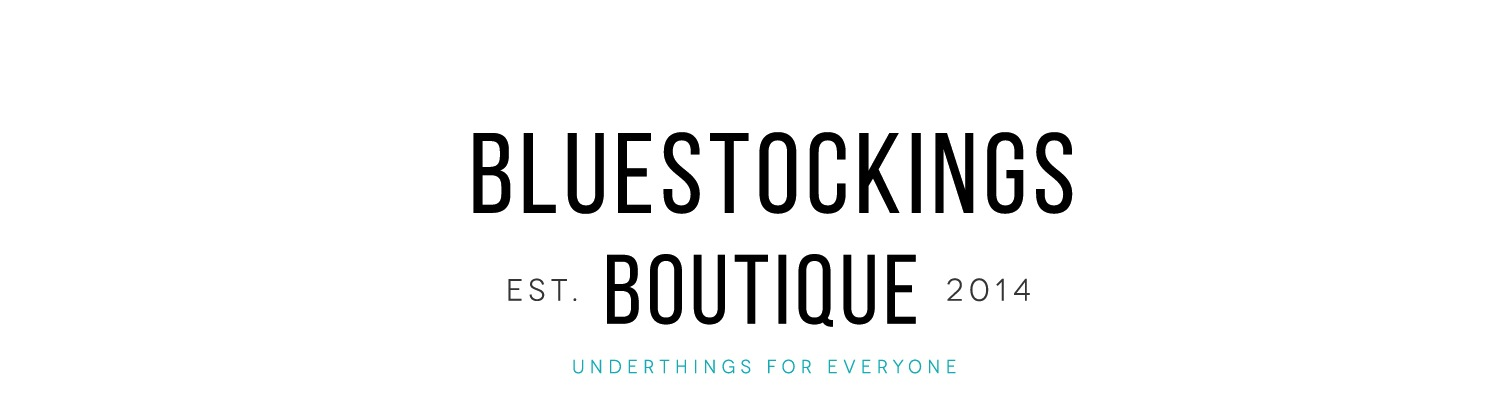
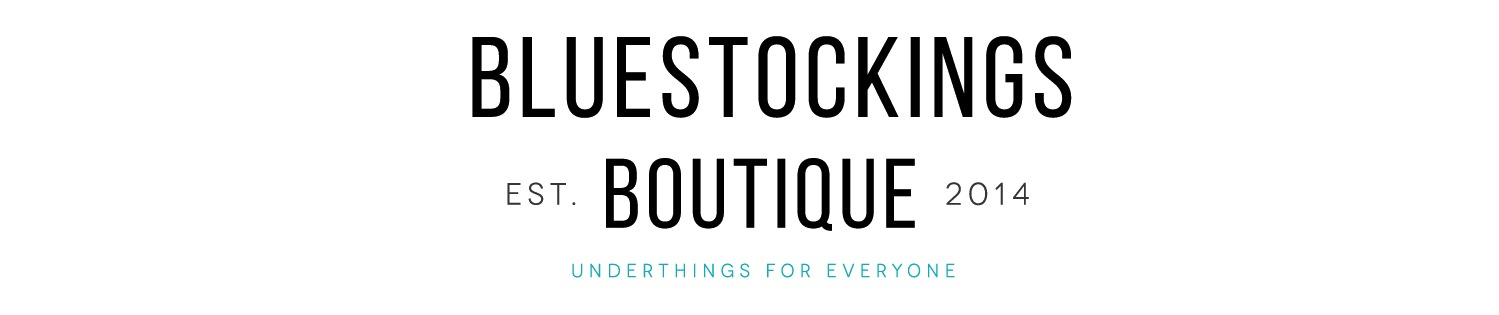
TWEAAAAKS

Changed region(s): [[0.3069, 0.1143, 0.7365, 0.8], [0.3682, 0.8286, 0.6444, 0.9143]]

diff --git a/wp-content/themes/bluestockings/style.css b/wp-content/themes/bluestockings/style.css
@@ -148,8 +148,6 @@ a img {
 2.0 Typography
 --------------------------------------------------------------*/
 body,
-button,
-input,
 select,
 textarea {
 	color: #404040;
@@ -157,6 +155,11 @@ textarea {
 	font-size: 16px;
 	font-size: 1.6rem;
 	line-height: 1.5;
+}
+
+button,
+input {
+	font-family: 'bebas_neuelight'
 }
 
 h1,
@@ -571,33 +574,10 @@ button,
 input[type="button"],
 input[type="reset"],
 input[type="submit"] {
-	border: 1px solid;
-	border-color: #ccc #ccc #bbb;
-	border-radius: 3px;
-	background: #e6e6e6;
-	box-shadow: inset 0 1px 0 rgba(255, 255, 255, 0.5), inset 0 15px 17px rgba(255, 255, 255, 0.5), inset 0 -5px 12px rgba(0, 0, 0, 0.05);
-	color: rgba(0, 0, 0, .8);
 	cursor: pointer; /* Improves usability and consistency of cursor style between image-type 'input' and others */
 	-webkit-appearance: button; /* Corrects inability to style clickable 'input' types in iOS */
-	font-size: 12px;
-	font-size: 1.2rem;
-	line-height: 1;
-	padding: .6em 1em .4em;
-	text-shadow: 0 1px 0 rgba(255, 255, 255, 0.8);
 }
 
-
-button:focus,
-input[type="button"]:focus,
-input[type="reset"]:focus,
-input[type="submit"]:focus,
-button:active,
-input[type="button"]:active,
-input[type="reset"]:active,
-input[type="submit"]:active {
-	border-color: #aaa #bbb #bbb;
-	box-shadow: inset 0 -1px 0 rgba(255, 255, 255, 0.5), inset 0 2px 5px rgba(0, 0, 0, 0.15);
-}
 
 input[type="checkbox"],
 input[type="radio"] {
@@ -619,7 +599,7 @@ button::-moz-focus-inner,
 input::-moz-focus-inner { /* Corrects inner padding and border displayed oddly in FF3/4 www.sitepen.com/blog/2008/05/14/the-devils-in-the-details-fixing-dojos-toolbar-buttons/ */
 	border: 0;
 	padding: 0;
-	font-size: 14pt;
+	font-size: 13pt;
 }
 
 input[type="text"],
@@ -1120,6 +1100,10 @@ object {
 	text-align: center;
 }
 
+.site-header a:hover {
+	color: #444444;
+}
+
 @media (min-width: 481px) and (max-width: 760px) {
 	.site-header a {
 		font-size: 16pt;
@@ -1145,13 +1129,14 @@ Landing splash page
 
 .jumbotron-wrapper {
 	text-align: center;
+	margin-top: 40px;
 	margin-right: auto;
 	margin-left: auto;
 	background-image: url('images/bb.jpg');
 	background-position: center;
 	background-repeat: no-repeat;
 	width: 100%;
-	height: 370px;
+	height: 340px;
 }
 
 @media (max-width: 760px) {
@@ -1169,9 +1154,9 @@ Landing splash page
 
 h1.coming-soon {
 	color: gray;
-	font-size: 20pt;
+	font-size: 14pt;
 	font-family: 'novecentolight', sans-serif;
-	margin-top: 10px;
+	padding-bottom: 30px;
 }
 
 @media (min-width: 481px) and (max-width: 760px) {
@@ -1222,7 +1207,7 @@ h1.coming-soon {
 
 .launch-button {
 	position: absolute;
-	border: 3px solid #43A2AE;
+	border: 3px solid #04B4BF;
 	width: 280px;
 	left:50%;
 	top: 20px;
@@ -1242,7 +1227,7 @@ h1.coming-soon {
 .banner-left-top {
 	width: 0; 
 	height: 0; 
-	border-top: 35px solid #43A2AE;
+	border-top: 35px solid #04B4BF;
 	border-left: 35px solid transparent;
 	position: absolute;
 	top: 30px;
@@ -1261,7 +1246,7 @@ h1.coming-soon {
 .banner-left-bottom {
 	width: 0; 
 	height: 0; 
-	border-bottom: 35px solid #43A2AE;
+	border-bottom: 35px solid #04B4BF;
 	border-left: 35px solid transparent;
 	position: absolute;
 	top: 30px;
@@ -1281,7 +1266,7 @@ h1.coming-soon {
 .banner-right-top {
 	width: 0; 
 	height: 0; 
-	border-top: 35px solid #43A2AE;
+	border-top: 35px solid #04B4BF;
 	border-right: 35px solid transparent;
 	position: absolute;
 	top: 30px;
@@ -1301,7 +1286,7 @@ h1.coming-soon {
 .banner-right-bottom {
 	width: 0; 
 	height: 0; 
-	border-bottom: 35px solid #43A2AE;
+	border-bottom: 35px solid #04B4BF;
 	border-right: 35px solid transparent;
 	position: absolute;
 	top: 30px;
@@ -1320,7 +1305,7 @@ h1.coming-soon {
 
 .launch-button a:link,
 .launch-button a:visited {
-	background: #43A2AE;
+	background: #04B4BF;
 	display: block;
 	width: calc(100%-2px);
 	color: white;
@@ -1339,14 +1324,14 @@ h1.coming-soon {
 }
 
 .button:hover {
-		color: #43A2AE;
+		color: #04B4BF;
 
 }
 
 .button a:hover,
 .button a:active {
-	border: 2px solid #43A2AE;
-	color: #43A2AE;
+	border: 2px solid #04B4BF;
+	color: #04B4BF;
 	background: #FFF;
 }
 
@@ -1375,7 +1360,7 @@ h1.coming-soon {
 		font-size: 14pt;
 	}
 	.mailchimp input.email {
-		font-size: 14pt;
+		font-size: 13pt;
 	}
 }
 
@@ -1389,33 +1374,29 @@ h1.coming-soon {
 
 .mailchimp input.email {
 	font-family: 'novecentolight', sans-serif;	
-	width: 400px;
 	font-size: 13pt;
 	text-align: center;
 	display: inline-block;
 	margin-right: auto;
 	margin-left: auto;
+	vertical-align: center;
 }
 
 .mailchimp input.button {
-	font-size: 13pt;
-	width: 200px;
-	text-decoration:none;
-	background:-moz-linear-gradient( center top, #ffffff 5%, #f6f6f6 100% );
-	background:-ms-linear-gradient( top, #ffffff 5%, #f6f6f6 100% );
-	filter:progid:DXImageTransform.Microsoft.gradient(startColorstr='#ffffff', endColorstr='#f6f6f6');
-	background:-webkit-gradient( linear, left top, left bottom, color-stop(5%, #ffffff), color-stop(100%, #f6f6f6) );
-	background-color:#ffffff;
-	color:#666666;
-	text-shadow:1px 1px 0px #ffffff;
- 	-webkit-box-shadow:inset 1px 1px 0px 0px #ffffff;
- 	-moz-box-shadow:inset 1px 1px 0px 0px #ffffff;
- 	box-shadow:inset 1px 1px 0px 0px #ffffff;
+	-webkit-border-radius: 5;
+  -moz-border-radius: 5;
+  border-radius: 5px;
+  color: #ffffff;
+  font-size: 13pt;
+  background: #04B4BF;
+  padding: 10px 20px 10px 20px;
+  text-decoration: none;
+  line-height: 0.8em;
 }
 
-.mailchimp input.button:active {
-	position:relative;
-	top:1px;
+.mailchimp input.button:hover {
+	background: #B3B3B3;
+  text-decoration: none;
 }
 
 .mailchimp input.email {
@@ -1436,7 +1417,7 @@ h1.coming-soon {
 	text-align: right;
 	padding-right: 20px;
 	font-size: 11pt;
-	color:#04B4BF;
+	color: black;
 }
 
 

diff --git a/wp-content/themes/bluestockings/Landing Page.php b/wp-content/themes/bluestockings/Landing Page.php
@@ -15,7 +15,7 @@ get_header(); ?>
 
 	<div id="primary" class="content-area">
    <main id="main" class="site-main" role="main">
-				<div class="jumbotron-wrapper"><h1 class="coming-soon">COMING SOON</h1></div>
+				<div class="jumbotron-wrapper"><h1 class="coming-soon">C O M I N G &nbsp; S O O N</h1></div>
 					<div class="inner-jumbotron-container">
 						<div class="social">
  						<a href="http://t.co/ugJ9dISkf8"><img class="facebook" src="wp-content/themes/bluestockings/images/facebook.png"/></a>
@@ -39,7 +39,7 @@ get_header(); ?>
 			<div id="mc_embed_signup">
 			<form action="//bluestockingsboutique.us9.list-manage.com/subscribe/post?u=85aa1bdc14611c28a3a893aa9&amp;id=ebdf8ac3bf" method="post" id="mc-embedded-subscribe-form" name="mc-embedded-subscribe-form" class="validate" target="_blank" novalidate>
 			    <div id="mc_embed_signup_scroll">
-				<label for="mce-EMAIL">BE IN THE KNOW:&nbsp;&nbsp;&nbsp;</label>
+				<label for="mce-EMAIL">BE IN THE KNOW</label><br>
 				<input type="email" value="" name="EMAIL" class="email" id="mce-EMAIL" placeholder="EMAIL ADDRESS" required>&nbsp;&nbsp;&nbsp;&nbsp;
 			    <!-- real people should not fill this in and expect good things - do not remove this or risk form bot signups-->
 			    <div style="position: absolute; left: -5000px;"><input type="text" name="b_85aa1bdc14611c28a3a893aa9_ebdf8ac3bf" tabindex="-1" value=""></div>
@@ -49,13 +49,8 @@ get_header(); ?>
 			<br/>
 			</div>
 		</div><!-- .mailchimp--><br><br>
-				</div>
-			</div>
-			<br/>
-</div>
-</div>
-<!--End mc_embed_signup-->
 
+<!--End mc_embed_signup-->
 		</main><!-- #main -->
 	</div><!-- #primary -->
 <?php get_footer(); ?>
